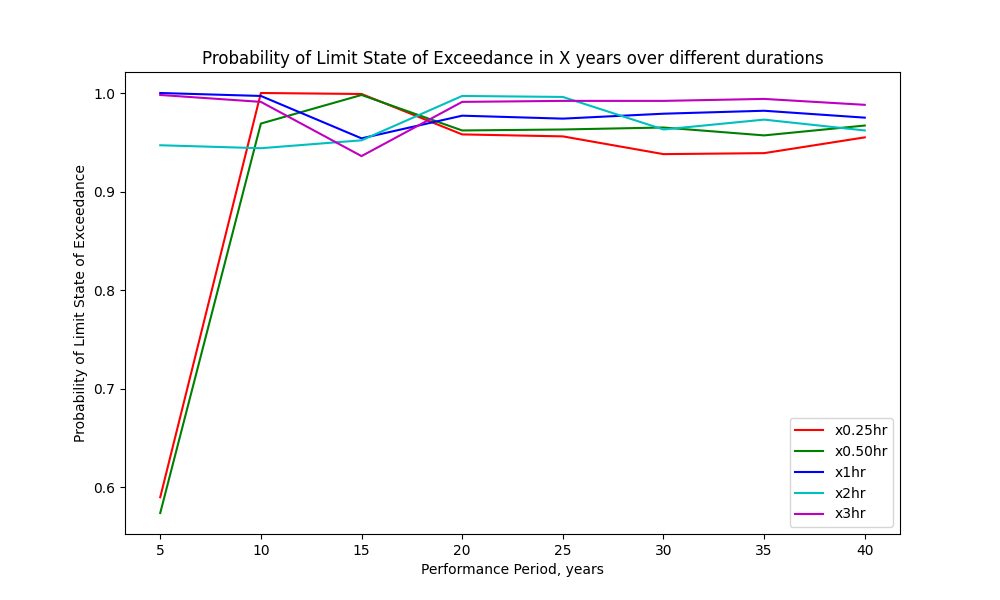
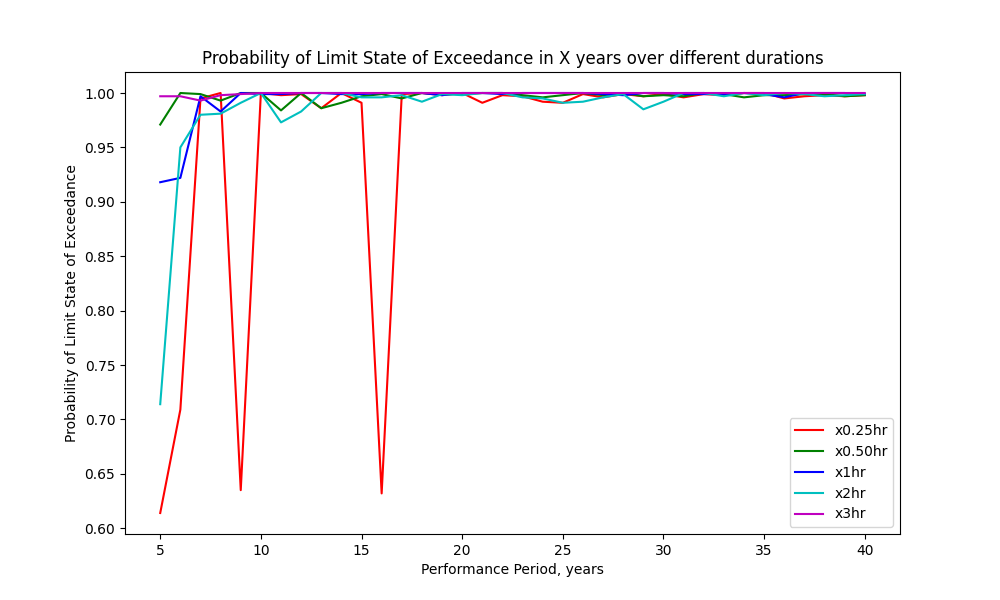
update fix-2 random block fragility design intensity

diff --git a/studies/reliability/SB i_mean design performance period fragility risk hazard/SB risk fit/riskassessment fit random.py b/studies/reliability/SB i_mean design performance period fragility risk hazard/SB risk fit/riskassessment fit random.py
@@ -10,7 +10,7 @@ from scipy.stats import ecdf
 
 np.random.seed(0)
 # exec(open('/home/devasmit/Desktop/PyPonding/studies/reliability/LAX/hazard/fragility_assessment LAX-2.py').read())
-intensity_data = pd.read_csv(os.path.join(os.getcwd(),'studies/reliability/SB performance period fragility risk hazard/final_precipitation_intensity_data.xlsx - Sheet1.csv'));
+intensity_data = pd.read_csv(os.path.join(os.getcwd(),'studies/reliability/SB i_mean design performance period fragility risk hazard/final_precipitation_intensity_data.xlsx - Sheet1.csv'));
 
 # Extract valid data, removing NaNs
 x_point_25hr = intensity_data['x0.25hr'].dropna()
@@ -30,7 +30,7 @@ f5, sorted_data_5 = ecdf(x2hr).cdf.probabilities, np.unique(x2hr)
 f6, sorted_data_6 = ecdf(x3hr).cdf.probabilities, np.unique(x3hr) 
 
 # Define the list of window sizes (moving window sizes)
-window_sizes = [5, 10, 15, 20, 25, 30, 35, 40] #np.arange(5,41,1) #[5, 8, 10, 15, 20, 30, 40, 50, 60]  # Generates values from 1 to 10 with a step size of 1
+window_sizes = np.arange(5,41,1) #np.arange(5,41,1) #[5, 8, 10, 15, 20, 30, 40, 50, 60]  # Generates values from 1 to 10 with a step size of 1
 line_styles = ['-', '--', ':', '-.', '.-.']  # Different line styles for each window size
 
 columns = ['x0.25hr', 'x0.50hr', 'x1hr', 'x2hr', 'x3hr']
@@ -82,11 +82,11 @@ def duration_window_wise(window_size, duration):
         # Pf[i] = run_analysis('W14X22',360.0,0.020833333333333332,6.944444444444444e-05, label, IM, duration, window_size)
 
         # Read the CSV file into a DataFrame
-        df = pd.read_csv(f'studies/reliability/SB performance period fragility risk hazard/SB {window_size} performance period/Fragility_fit/mu_sigma_opt_durationwise.csv')
+        df = pd.read_csv(f'studies/reliability/SB i_mean design performance period fragility risk hazard/Fragility_fit/mu_sigma_opt_durationwise.csv')
 
         # Extract the optimized mu and sigma values for the current duration
-        mu_opt = df.loc[df['duration'].str.strip() == duration, 'mu_opt'].values[0]
-        sigma_opt = df.loc[df['duration'].str.strip() == duration, 'sigma_opt'].values[0]
+        mu_opt = df.values[0][0] #df.loc[df['duration'].str.strip() == duration, 'mu_opt'].values[0]
+        sigma_opt = df.values[0][1] #df.loc[df['duration'].str.strip() == duration, 'sigma_opt'].values[0]
 
         print(f'For duration {duration} period {window_size} Optimized mu: {mu_opt}, Optimized sigma: {sigma_opt}')
 
@@ -120,4 +120,4 @@ plt.xlabel('Performance Period, years')
 plt.ylabel('Probability of Limit State of Exceedance')
 plt.title('Probability of Limit State of Exceedance in X years over different durations')
 plt.legend()
-plt.savefig('studies/reliability/SB performance period fragility risk hazard/SB risk fit/Probability_of_limit_state_exceedance_X_years_random_block.png')
+plt.savefig('studies/reliability/SB i_mean design performance period fragility risk hazard/SB risk fit/Probability_of_limit_state_exceedance_X_years_random_block.png')
